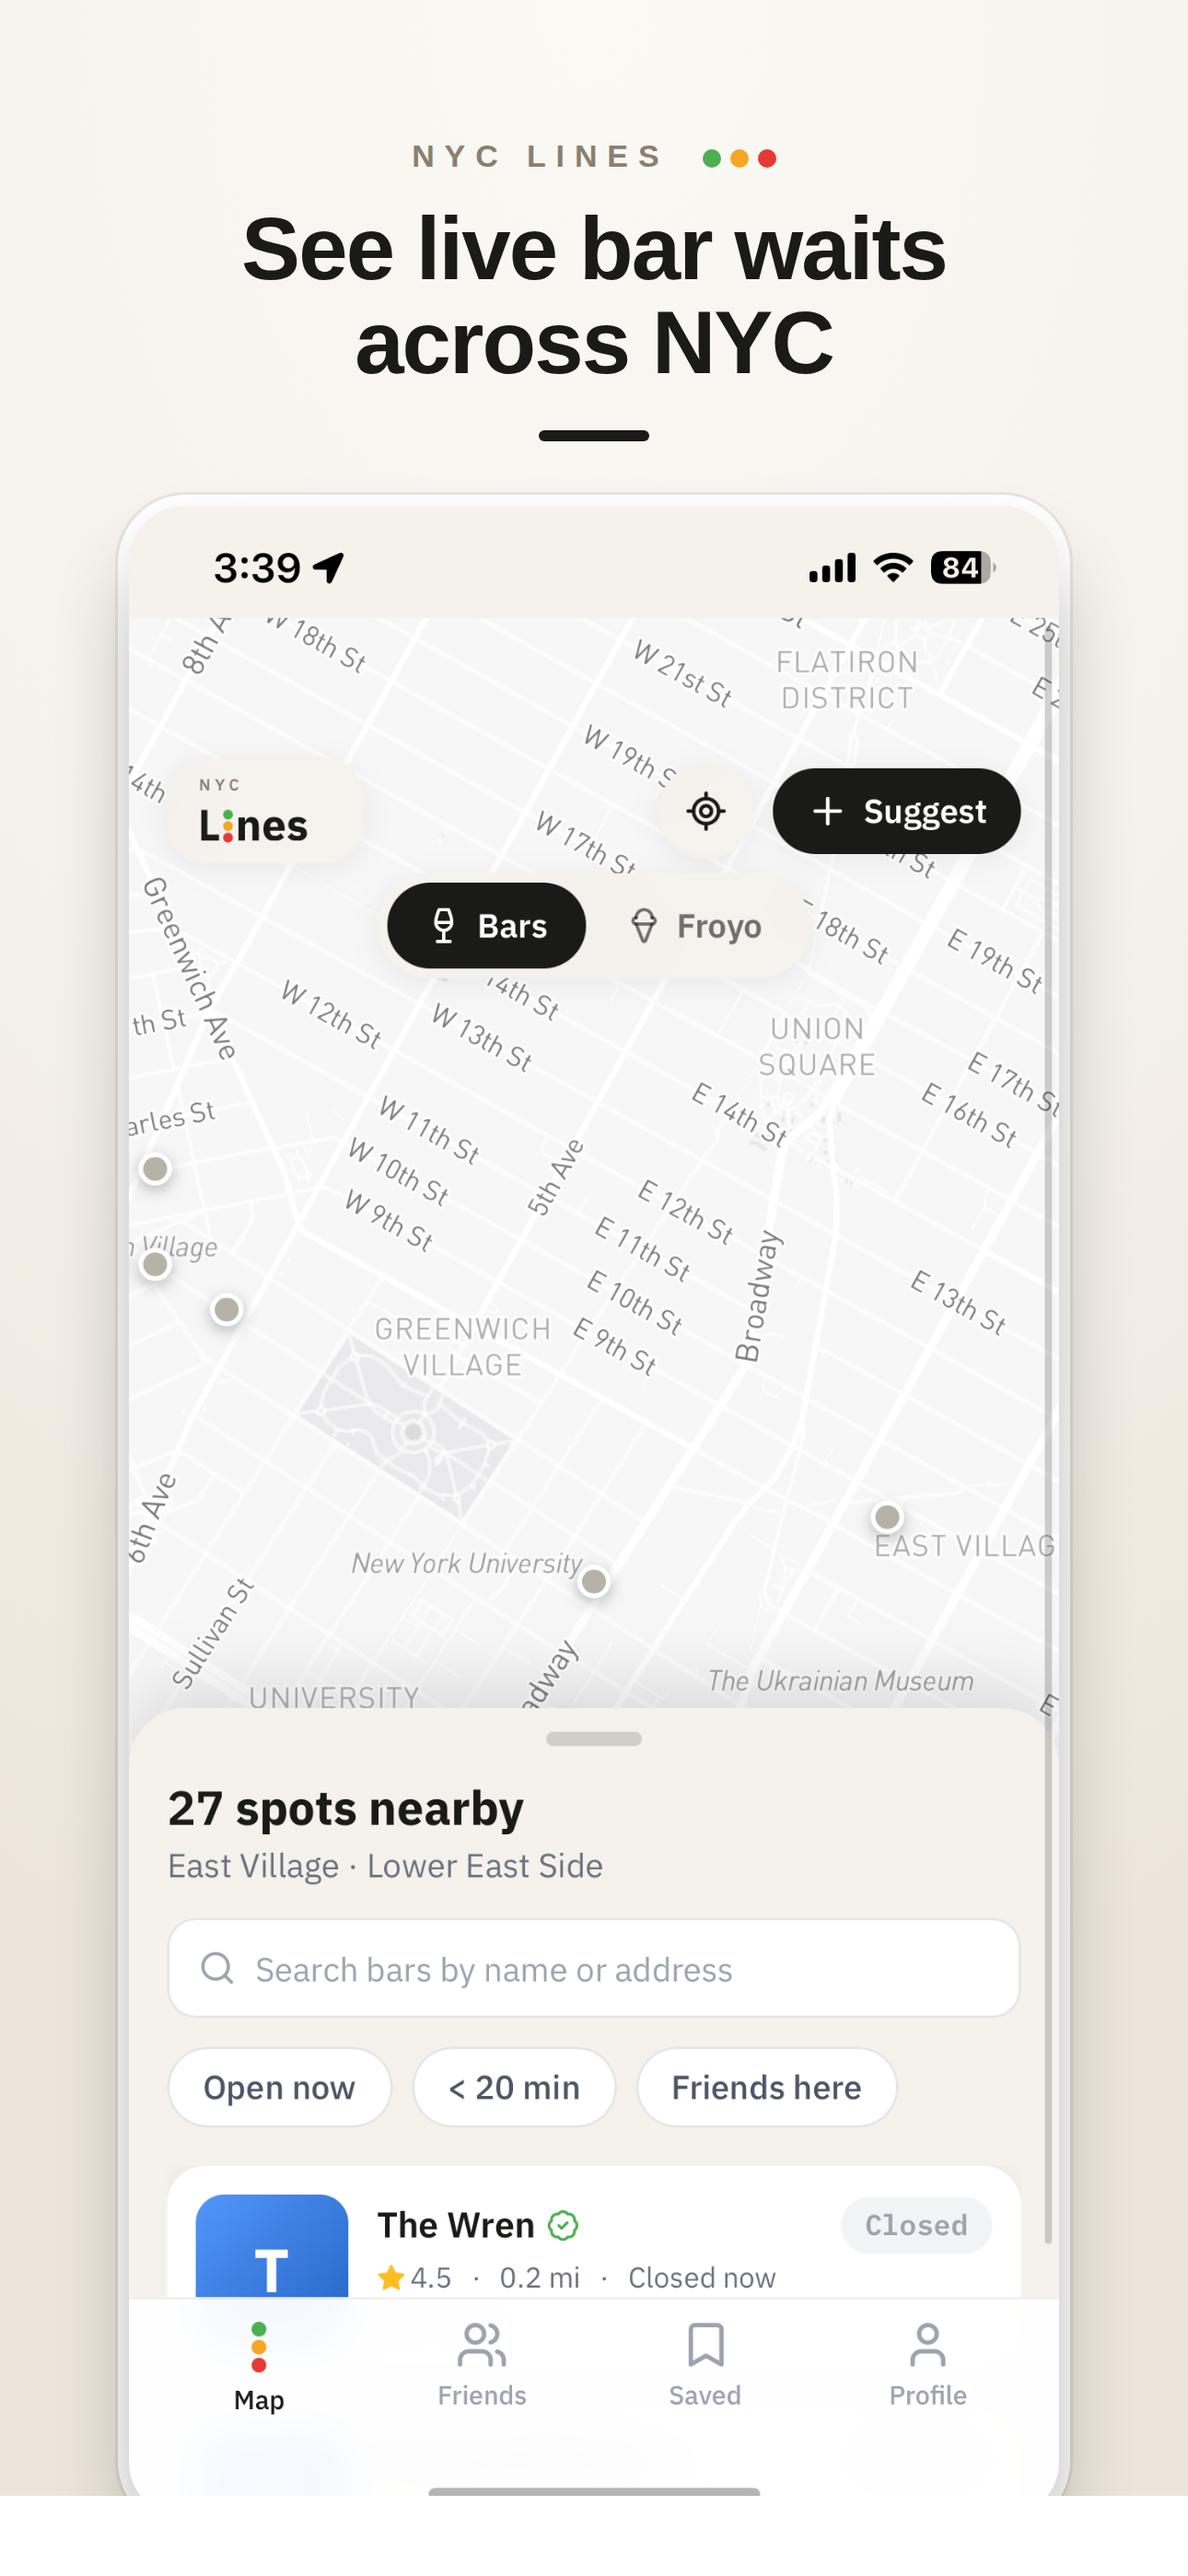
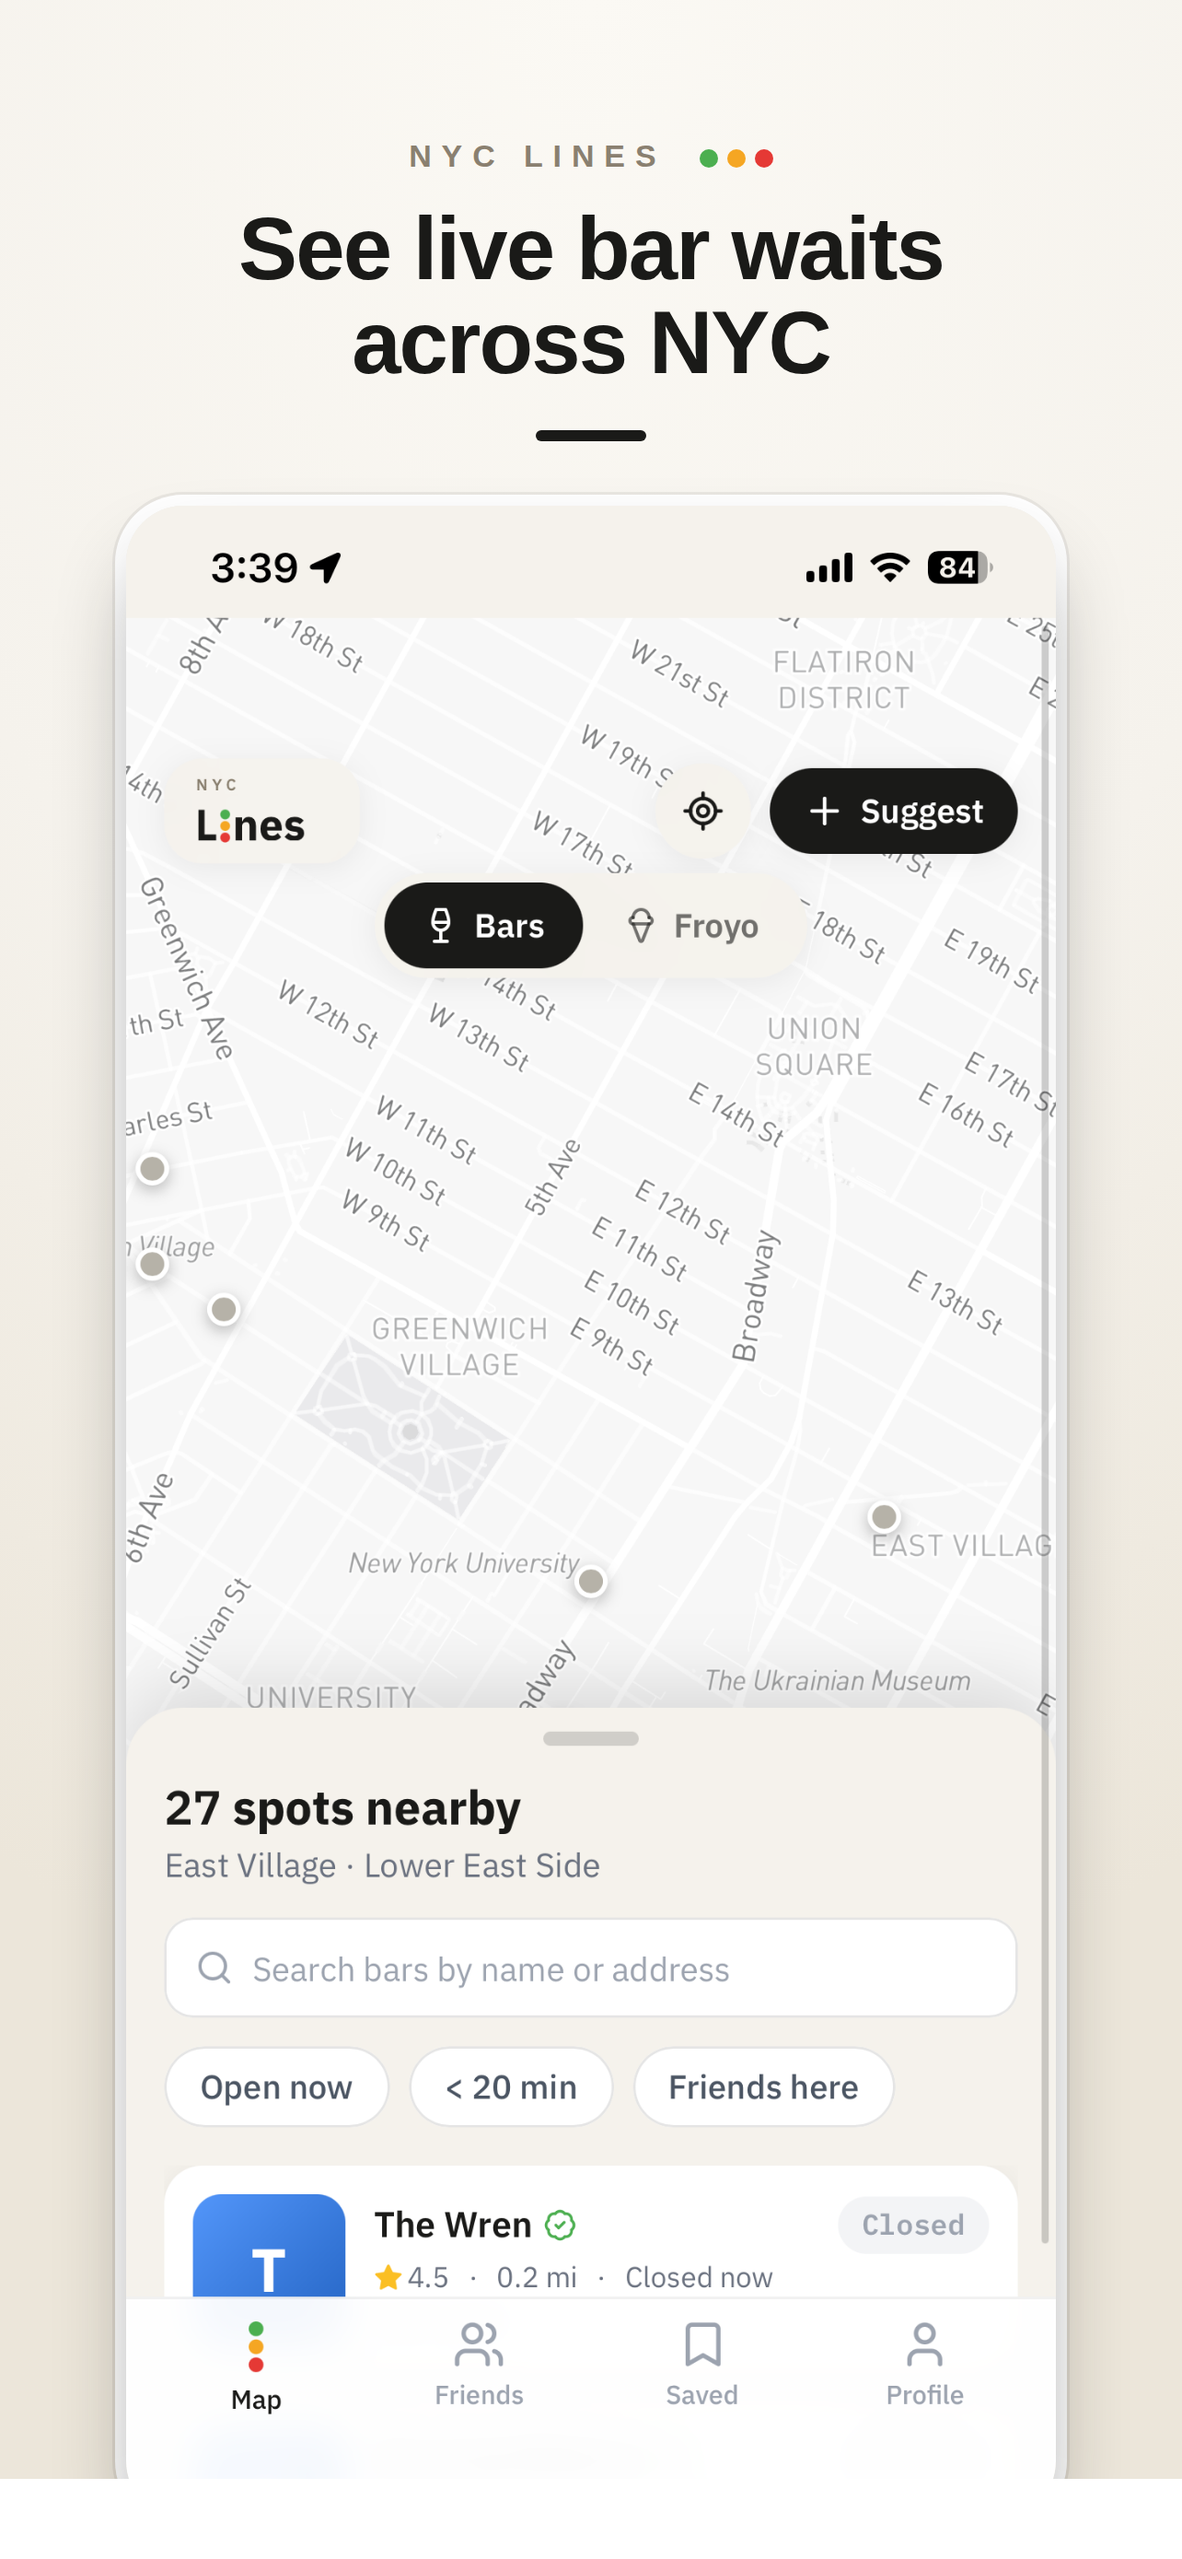
Resize App Store screenshots to 1284x2778 (accepted iPhone size)
App Store Connect rejected 1290x2796; the 6.5"/6.7" slot accepts 1284x2778.
Regenerate at that size.

Claude-Session: https://claude.ai/code/session_01AUHywA3mztCc5HePXYXxeb

diff --git a/docs/appstore/generate.py b/docs/appstore/generate.py
@@ -7,7 +7,7 @@ CHROME = "/opt/pw-browsers/chromium-1194/chrome-linux/chrome"
 os.makedirs(OUT, exist_ok=True)
 
 # 6.9" iPhone App Store size
-W, H = 1290, 2796
+W, H = 1284, 2778
 
 # Brand tokens
 BG = "#F5F2EC"        # app background
